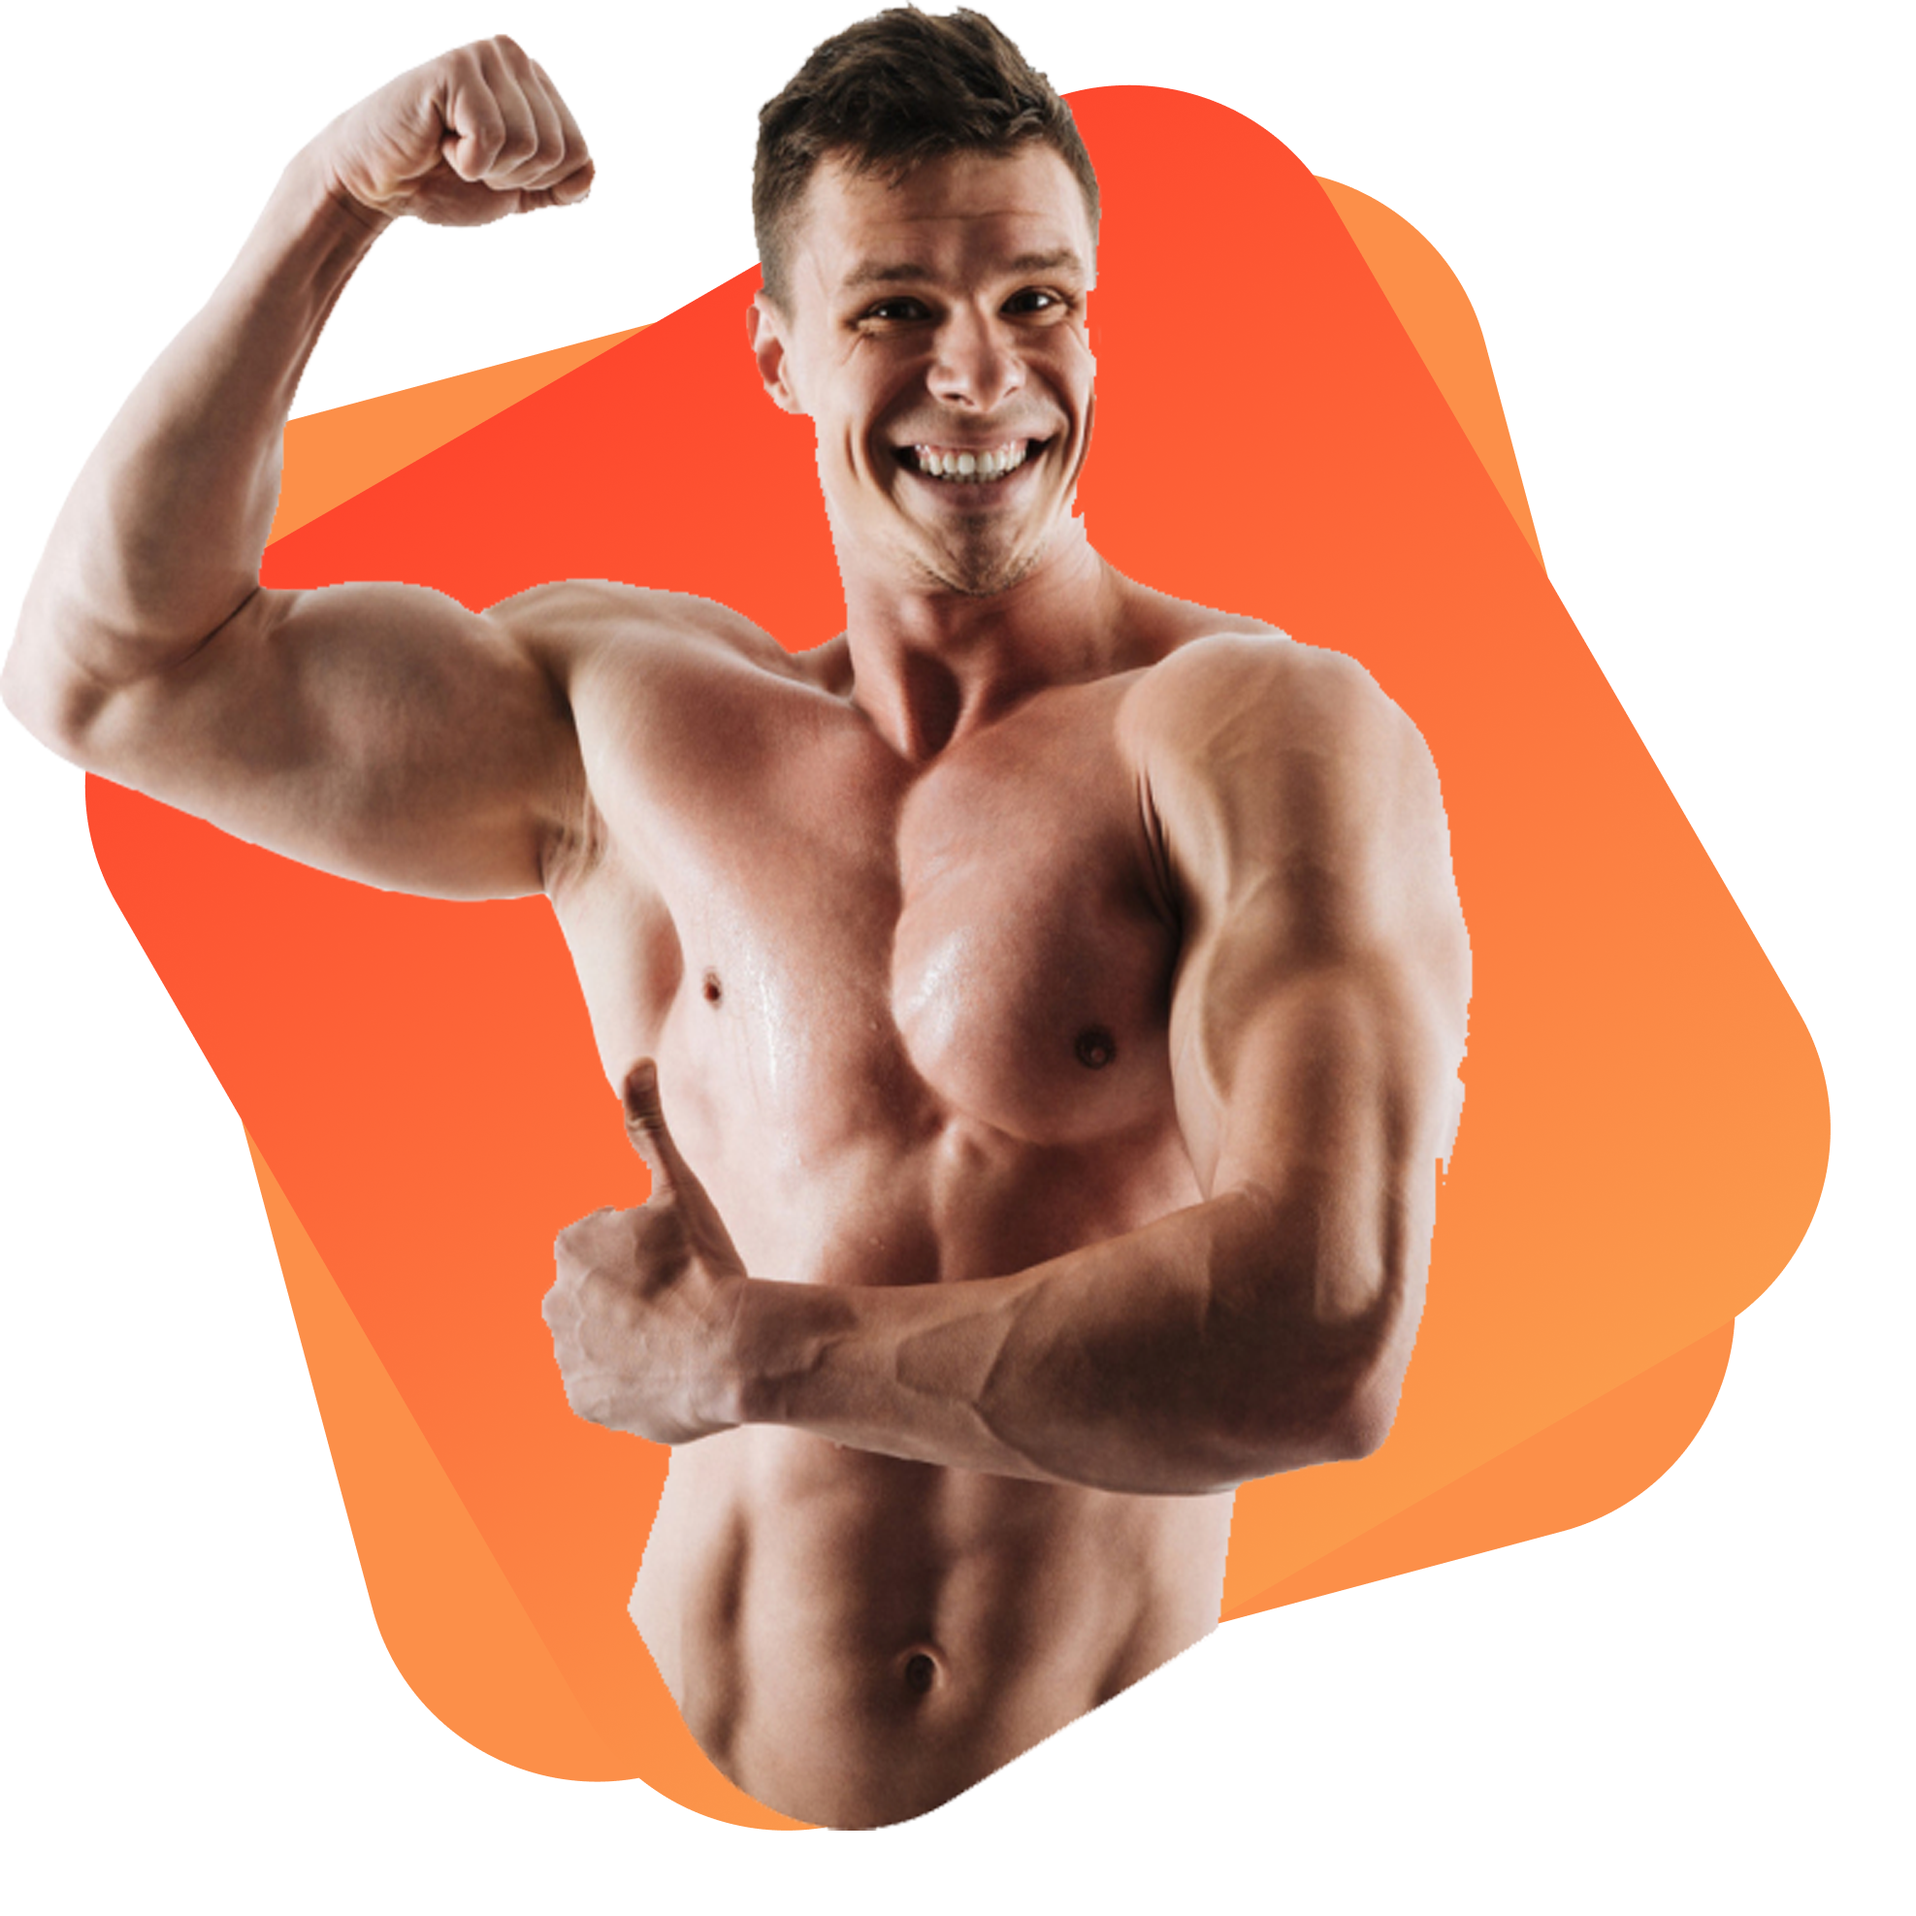
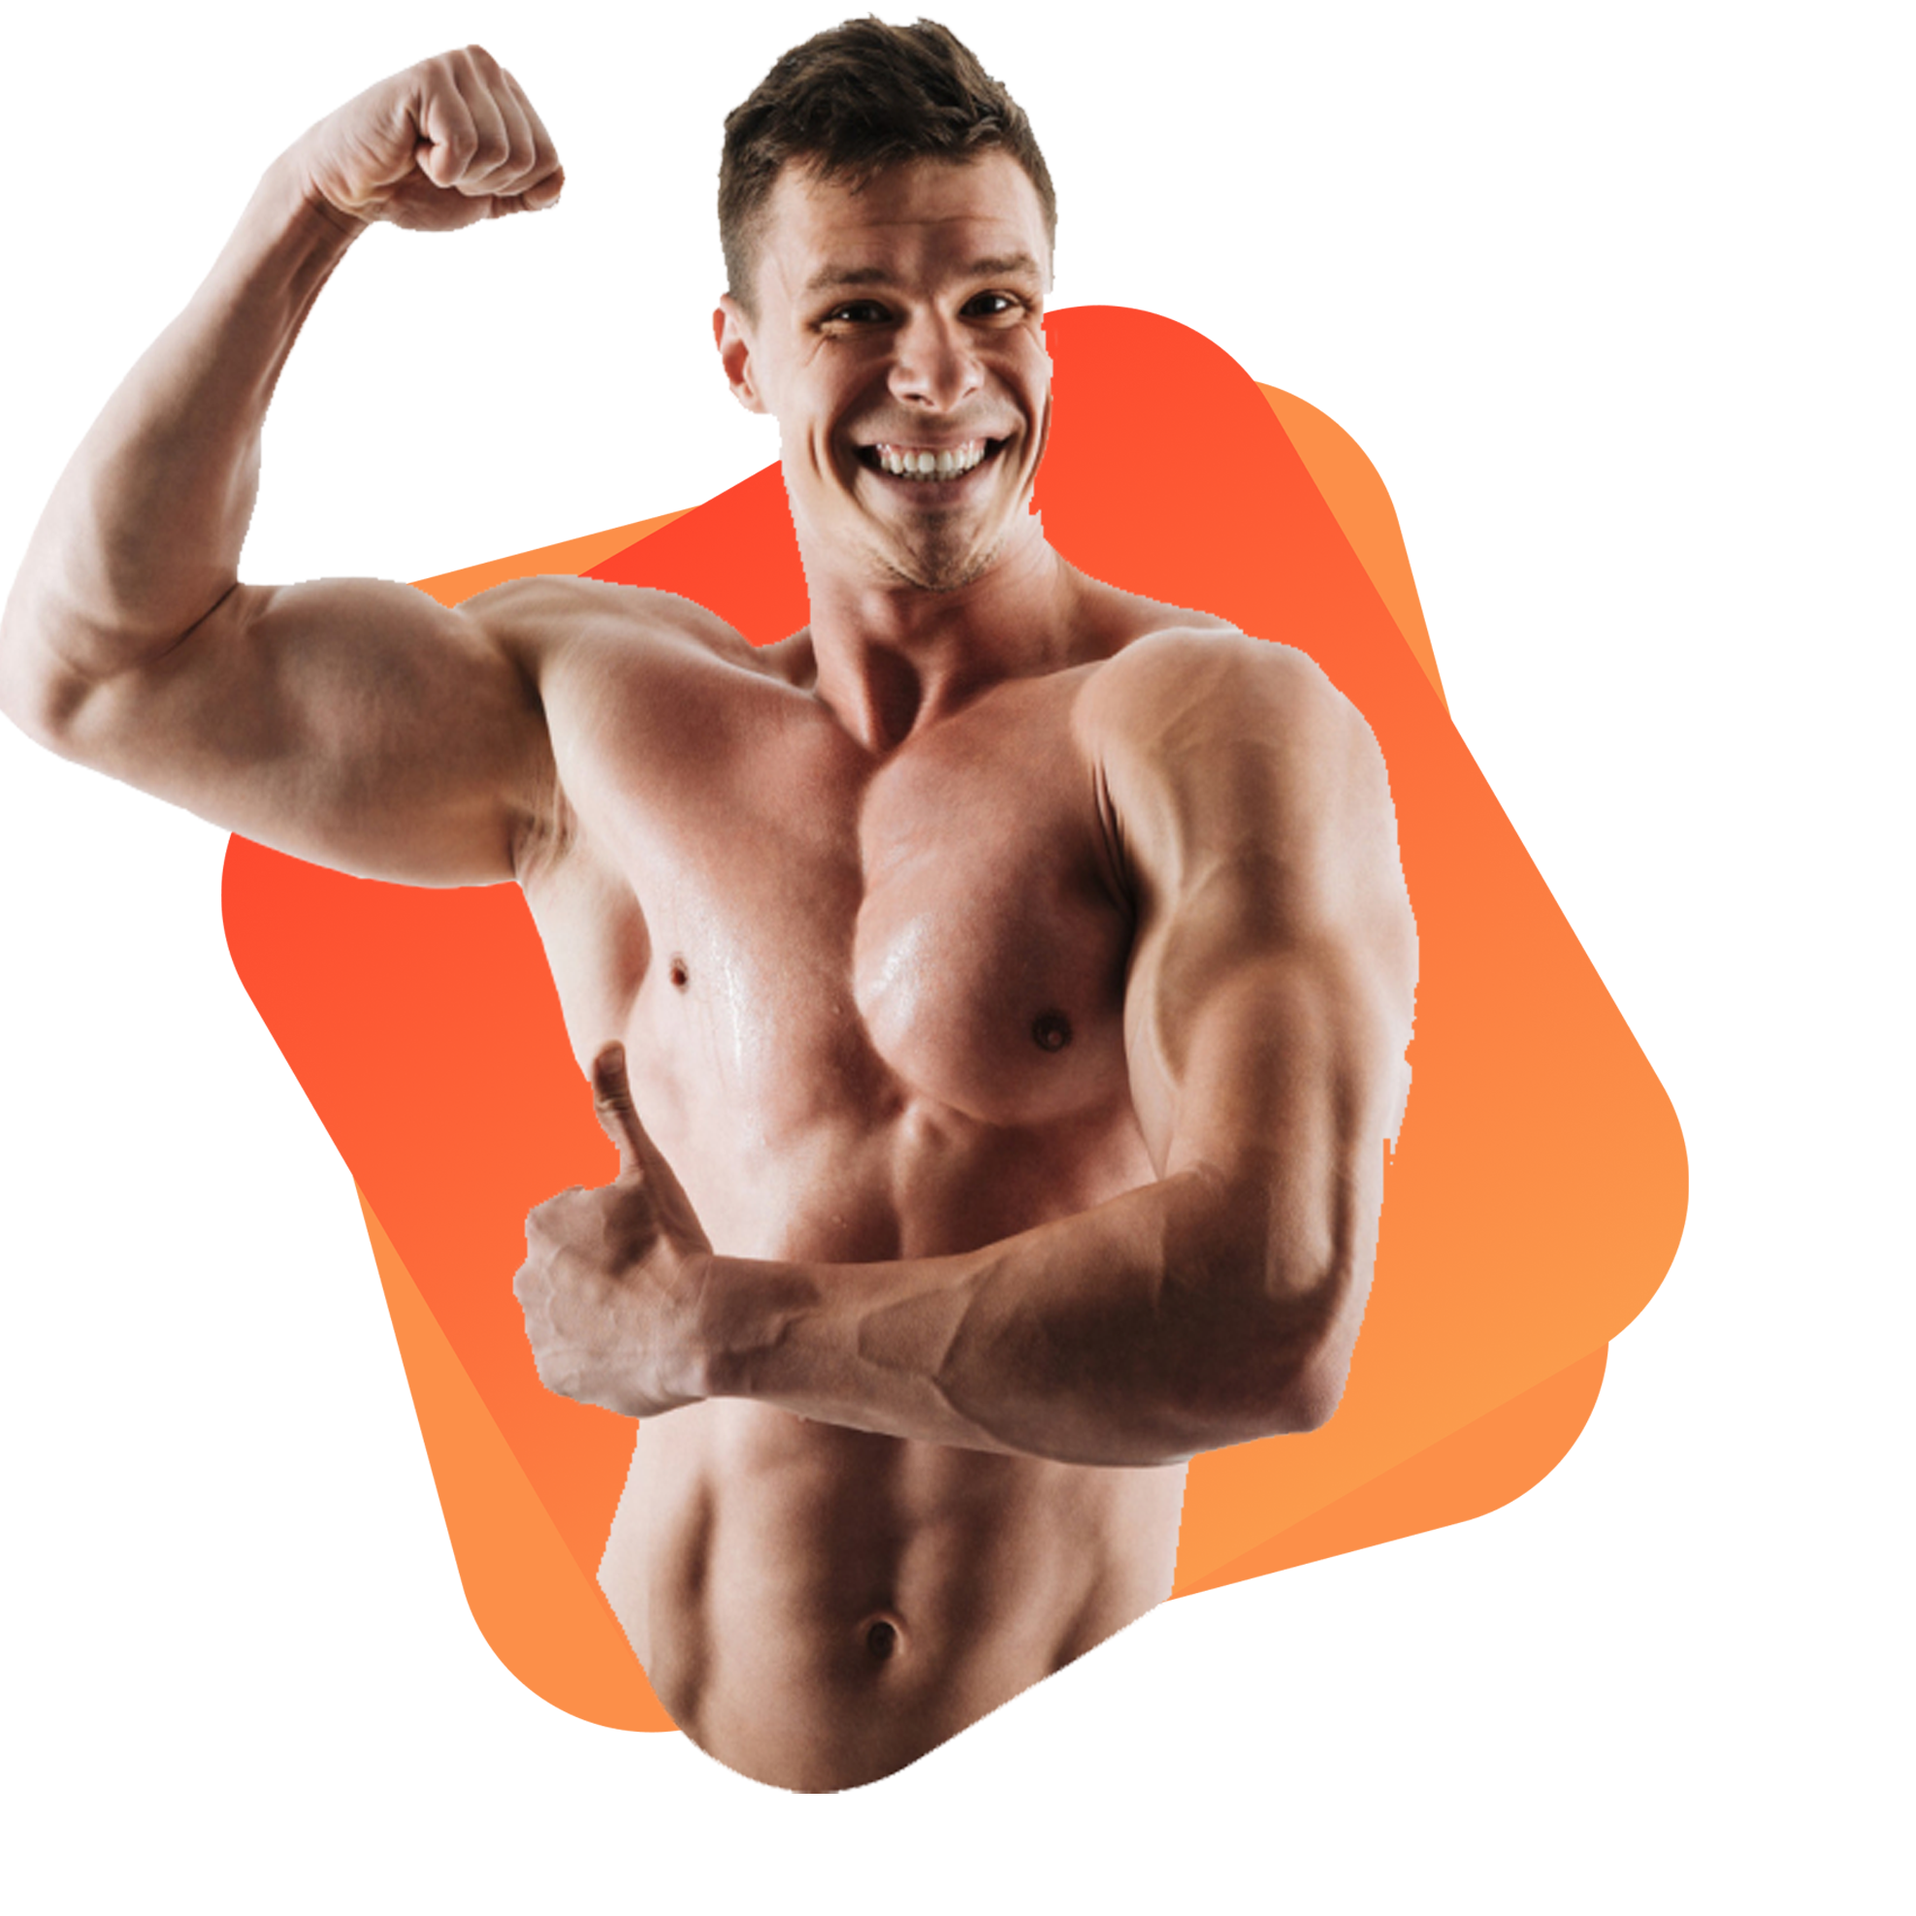
again

diff --git a/index.html b/index.html
@@ -6,23 +6,23 @@
     <meta name="viewport" content="width=device-width, initial-scale=1.0">
     <title>Eat Healthy with Food Network</title>
     <link rel="stylesheet" href="style.css">
-    <link rel="preconnect" href="https://fonts.googleapis.com">
-<link rel="preconnect" href="https://fonts.gstatic.com" crossorigin>
-<link href="https://fonts.googleapis.com/css2?family=Poppins&family=Roboto&display=swap" rel="stylesheet">
+    <<link rel="preconnect" href="https://fonts.googleapis.com">
+    <link rel="preconnect" href="https://fonts.gstatic.com" crossorigin>
+    <link href="https://fonts.googleapis.com/css2?family=Open+Sans&display=swap" rel="stylesheet">
 </head>
 <body>
-    <section class="flexible">
-        <div class="half-width ">
-            <h1><span>Skip</span> The Diet, Just Eat Healthy with Food Network</h1>
-            <p>Imagine you don't need a diet because we provide healthy and deliciou food for you!</p>
+ <section>
+     <div class="half-width">
+         <h1><span id="orange">Skip</span> The Diet, Just Eat Healthy with food Network</h1>
 
-            <a class="order" href="https://www.foodpanda.com.bd/">Order Food</a>
-        </div>
-        <div class="half-width">
-            <img class="gym-man" src="images/Edit/gym-man.png" alt="">
-        </div>
+         <p>Lorem ipsum dolor sit amet consectetur adipisicing elit. Magnam, ipsa recusandae? Quisquam tempore, asperiores, blanditiis accusantium reprehenderit aspernatur, aliquid tenetur magnam unde veniam ducimus vel a tempora praesentium ullam autem.</p>
 
-    </section>
-    
+         <a class="button" href="foorpanda.com">Order Now </a>
+     </div>
+     <div class="half-width">
+         <img src="images/Edit/gym-man.png" alt="">
+     </div>
+ </section>
+
 </body>
 </html>

diff --git a/style.css b/style.css
@@ -1,29 +1,27 @@
 body {
-  font-family: "Roboto", sans-serif;
+  margin: 0;
+  font-family: "Open Sans", sans-serif;
 }
-span {
+section {
+  height: 500px;
+  padding-bottom: 150px;
+  display: flex;
+}
+#orange {
   color: orange;
 }
-
-.flexible {
-  display: flex;
-  padding: 80px;
-  font-size: 80px;
-}
 .half-width {
-  width: 50%;
-  height: 400px;
+  margin: 5%;
+  padding: 2%;
+  width: 40%;
+  font-size: 60px;
 }
-.order {
+
+.button {
   text-decoration: none;
-  padding: 10px 20px;
-  border: 1px solid orange;
-  border-radius: 20px;
+  padding: 20px 80px;
+  border: 1px;
+  border-radius: 40px;
   background-color: orange;
   color: white;
-  font-size: 50px;
-}
-.gym-man {
-  width: 1200px;
-  height: 1200px;
 }
